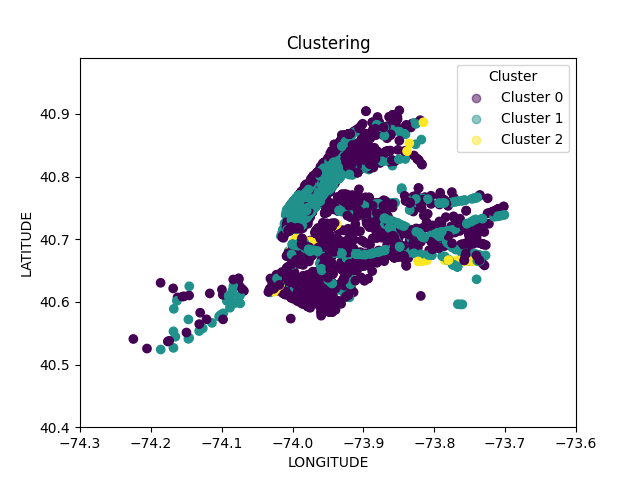
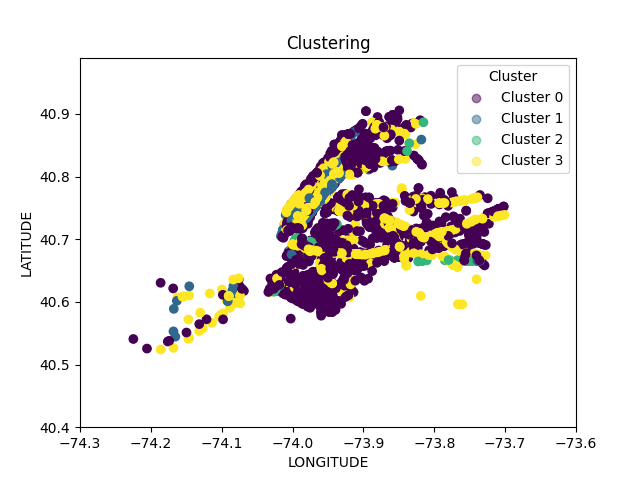
modifica clustering

diff --git a/clustering.py b/clustering.py
@@ -1,4 +1,5 @@
 from matplotlib import pyplot as plt
+import numpy as np
 import matplotlib
 import pandas as pd
 from sklearn.cluster import KMeans
@@ -25,6 +26,18 @@ inertias = []
 for k in range(1, 11):
     kmeans = KMeans(n_clusters=k, random_state=0,  n_init=10).fit(X)
     inertias.append(kmeans.inertia_)
+    """"
+    print("con K = ", k)
+    # Ottieni le etichette di cluster assegnate a ciascun esempio
+    cluster_labels = kmeans.labels_
+
+    # Calcola il numero di esempi in ogni cluster
+    cluster_counts = np.bincount(cluster_labels)
+
+    # Stampa il numero di esempi in ogni cluster
+    for cluster, count in enumerate(cluster_counts):
+        print(f"Cluster {cluster}: {count} esempi")
+    """
 
 # Traccia la curva di elbow
 plt.plot(range(1, 11), inertias)
@@ -35,7 +48,7 @@ path = "images/elbow.png"
 plt.savefig(path)
 
 # Esegui il clustering con l'algoritmo k-means
-kmeans = KMeans(n_clusters=3, random_state=0, n_init=10)
+kmeans = KMeans(n_clusters=4, random_state=0, n_init=10)
 
 kmeans.fit(X)
 
